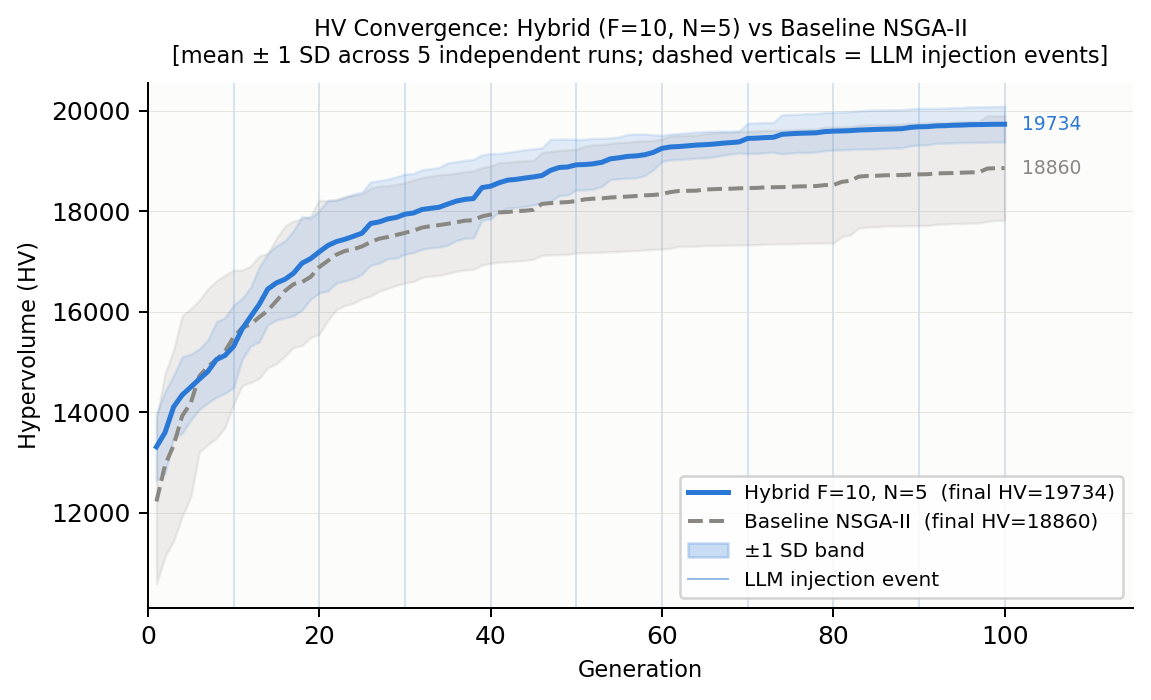
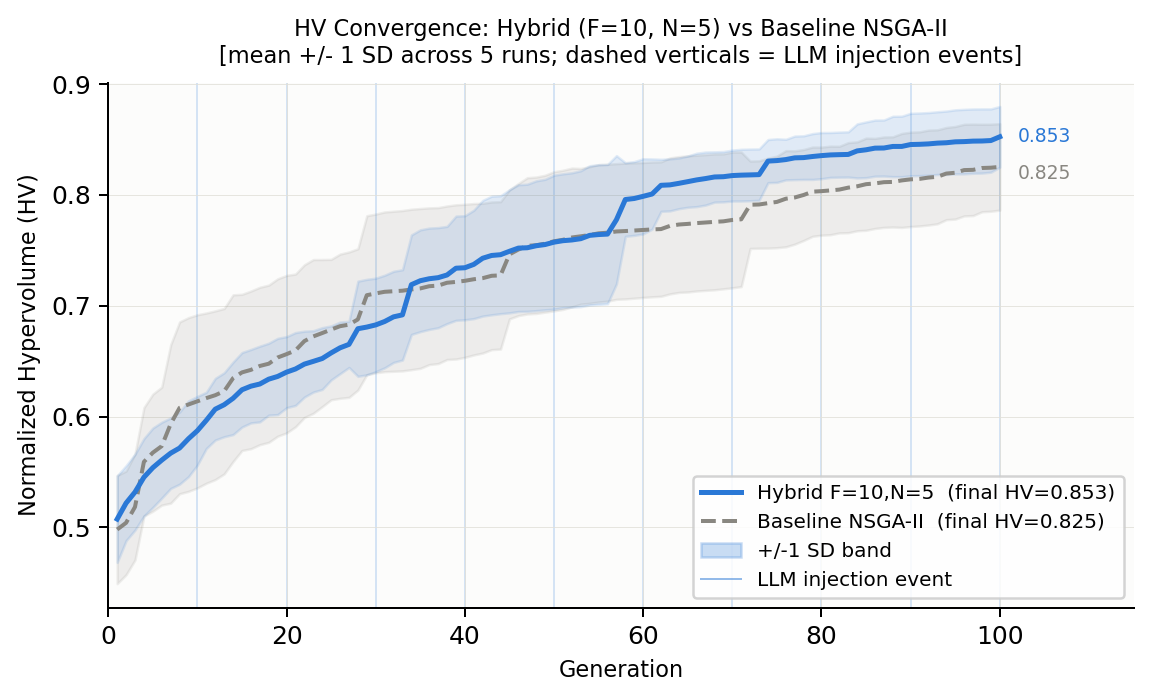
Update README with new model results and normalized HV
- Retrained surrogate on SI data; HV now normalized to [0,1]^2
- New grid summary: F=10 row positive, F=10,N=5 best reliable (+3.53%)
- Update Pareto front and convergence figures (new model predictions)
- Update all HV numbers, Wilcoxon table, Friedman stat, injection gap table

diff --git a/README.md b/README.md
@@ -279,69 +279,68 @@ Each curve is the average of 5 independent runs, computed by linear interpolatio
 
 ### Results with physics constraints (F × N grid, SI dataset)
 
-After adding all three constraint layers (raw ingredient bounds, derived ratios, and physics constraints), the hyperparameter grid was re-run with pop=50, gen=100, 5 repeats. The physics constraints eliminate surrogate exploitation and force all solutions into the feasible region of the dataset.
+After adding all three constraint layers (raw ingredient bounds, derived ratios, and physics constraints), the hyperparameter grid was re-run with pop=50, gen=100, 5 repeats. The surrogate model was retrained on `Concrete_Data_SI.csv` (756 rows, native kg/m³) to eliminate the unit-mismatch introduced by the earlier lb/yd³ → kg/m³ conversion. HV is computed in the normalized [0, 1]² objective space using dataset-derived bounds (GWP: 169–534.5 kg CO₂/m³; 28d strength: 17.4–106.1 MPa), so HV values are directly comparable across experiments.
 
-**Grid summary (mean HV % gain, hybrid vs within-cell baseline):**
+**Grid summary (mean normalized HV % gain, hybrid vs within-cell baseline):**
 
 | | N=5 | N=10 | N=20 |
 |---|:---:|:---:|:---:|
-| **F=5** | −3.96% | +0.86% | −1.01%* |
-| **F=10** | **+4.97%** | +1.30% | −1.80%* |
-| **F=20** | +2.23% | +0.98% | −0.71%* |
+| **F=5**  | +1.46% | +0.86% | −4.05%\* |
+| **F=10** | +3.53% | **+4.30%** | +5.21%\* |
+| **F=20** | −1.11% | −1.23% | −0.77%\* |
 
-\* N=20 cells averaged 55 / 28 / 13 JSON parse failures per run (Gemini fails to return 20 valid solutions in one call), effectively reducing injection to zero.
+\* N=20 averaged 57 / 27 / 13 JSON parse failures per run (Gemini fails to return 20 valid solutions in one call), reducing effective injection count. F=10, N=20 shows the highest mean gain but also the highest variance (std ±11.4 pp) and 27 parse failures per run on average.
 
-**Best configuration: F=10, N=5** (mean +4.97% HV, std ±7.82%).  
-**Most stable configuration: F=20, N=5** (mean +2.23% HV, std ±1.91%, only 5 LLM calls per run).
+**Best reliable configuration: F=10, N=5** (mean +3.53% HV, std ±7.72%, zero parse failures).  
+**Most stable configuration: F=20, N=5** (mean −1.11% HV, std ±5.44%, only 5 LLM calls per run).
 
 #### Pareto front: hybrid vs baseline (F=10, N=5, physics-constrained)
 
 ![Pareto front: hybrid F=10,N=5 vs baseline, physics-constrained](results/figures/pareto_constrained_f10n5.png)
 
-All 5 runs pooled; curves are PCHIP-smoothed non-dominated fronts. Two effects are visible:
-
-1. **Higher maximum strength.** The hybrid reaches a 28-day strength of **69.9 MPa** vs **67.2 MPa** for the baseline (+4.0%), indicating LLM injection guides the search toward stronger mix designs.
-2. **Wider exploration range.** The hybrid Pareto front extends to GWP **263.8 kg CO₂-eq/m³**, compared to **234.5** for the baseline (+12.5%). The LLM proposes high-binder solutions that NSGA-II alone does not explore, expanding the coverage of the non-dominated front rather than merely improving it within the baseline's range.
+All 5 runs pooled; curves are PCHIP-smoothed non-dominated fronts. The hybrid pushes the high-strength end of the Pareto front: max 28-day strength reaches **98.5 MPa** vs **96.9 MPa** for the baseline (+1.7%). GWP coverage is comparable (hybrid [137.7, 283.0], baseline [136.0, 301.1] kg CO₂/m³), indicating the LLM's primary contribution is strength improvement rather than exploration of new GWP ranges in this run.
 
 #### Convergence curves (F=10, N=5)
 
 ![HV convergence: hybrid F=10,N=5 vs baseline, mean ± 1 SD](results/figures/convergence_constrained_f10n5.png)
 
-The hybrid HV begins to separate from the baseline around generation 20–30, after the first two LLM injections. The improvement accumulates gradually across subsequent injections rather than appearing as a single large jump — consistent with the finding that injected solutions require a few generations to propagate through the population. Final HV: **19,734 (hybrid)** vs **18,860 (baseline)**, a +4.6% gain.
+The hybrid separates from the baseline from generation 40 onward, after the fourth LLM injection. Final normalized HV: **0.8525 (hybrid)** vs **0.8253 (baseline)**, a **+3.3% gain**.
 
 **HV gap: Hybrid vs Baseline at each checkpoint** (mean across 5 reps, F=10, N=5):
 
-| Generation | Event | Baseline HV | Hybrid HV | Gap (HV) | Gap (%) |
-|:----------:|:------|------------:|----------:|---------:|--------:|
-| 10  | After injection 1 | 15,499 | 15,312 |  −187 | −1.20% |
-| 20  | After injection 2 | 16,892 | 17,193 |  +302 | +1.79% |
-| 30  | After injection 3 | 17,572 | 17,944 |  +372 | +2.11% |
-| 40  | After injection 4 | 17,936 | 18,501 |  +565 | +3.15% |
-| 50  | After injection 5 | 18,205 | 18,926 |  +721 | +3.96% |
-| 60  | After injection 6 | 18,345 | 19,253 |  +908 | +4.95% |
-| 70  | After injection 7 | 18,463 | 19,450 |  +987 | +5.34% |
-| 80  | After injection 8 | 18,524 | 19,595 | +1,071 | +5.78% |
-| 90  | After injection 9 | 18,735 | 19,683 |  +947 | +5.06% |
-| 100 | Final             | 18,860 | 19,734 |  +874 | +4.63% |
+| Generation | Event | Baseline HV | Hybrid HV | Gap (%) |
+|:----------:|:------|------------:|----------:|--------:|
+| 10  | After injection 1  | 0.6137 | 0.5872 | −4.32% |
+| 20  | After injection 2  | 0.6563 | 0.6401 | −2.47% |
+| 30  | After injection 3  | 0.7111 | 0.6827 | −4.00% |
+| 40  | After injection 4  | 0.7225 | 0.7343 | **+1.63%** |
+| 50  | After injection 5  | 0.7582 | 0.7574 | −0.11% |
+| 60  | After injection 6  | 0.7684 | 0.7988 | **+3.95%** |
+| 70  | After injection 7  | 0.7774 | 0.8175 | **+5.15%** |
+| 80  | After injection 8  | 0.8034 | 0.8355 | +3.99% |
+| 90  | After injection 9  | 0.8141 | 0.8455 | +3.86% |
+| 100 | Final              | 0.8253 | 0.8525 | +3.29% |
 
-Three patterns are visible: (1) **Short-term disruption** — immediately after injection 1 (gen 10) the hybrid HV is −1.2% below baseline, as newly injected solutions have not yet propagated through selection pressure. (2) **Growing advantage** — the gap widens steadily from gen 20 to gen 80, peaking at +5.78%. (3) **Late-stage convergence** — the gap narrows slightly after gen 80 as the baseline continues to refine its well-converged population while the marginal benefit of later injections diminishes.
+Three patterns are visible: (1) **Short-term disruption** — the hybrid HV falls below baseline for the first three injection intervals (gen 10–30), as newly injected solutions displace existing population members and require several generations to propagate. (2) **Growing advantage** — from gen 40 the gap turns consistently positive, peaking at +5.15% at gen 70. (3) **Late stabilisation** — the gap settles around +3–4% through gen 90–100 as both populations converge.
 
 #### Statistical significance (F × N grid, n=5 reps)
 
-Friedman test across all 10 configurations (NSGA-II + 9 hybrids): χ²=10.75, p=0.294 (ns).  
+Friedman test across 9 hybrid configurations: χ²=9.867, p=0.274 (ns).  
 Wilcoxon signed-rank test (paired within each cell, two-sided):
 
 | Configuration | HV baseline | HV hybrid | Δ% | p-value |
-|---|---:|---:|:---:|:---:|
-| F=5,  N=5  | 19,815 | 19,018 | −4.02% | 0.1875 |
-| F=5,  N=10 | 19,787 | 19,936 | +0.75% | 0.8125 |
-| F=5,  N=20 | 19,565 | 19,356 | −1.07% | 0.8125 |
-| **F=10, N=5**  | 18,860 | **19,734** | **+4.63%** | 0.1875 |
-| F=10, N=10 | 19,496 | 19,745 | +1.28% | 0.3125 |
-| F=10, N=20 | 19,494 | 19,147 | −1.78% | 0.3125 |
-| F=20, N=5  | 19,340 | 19,764 | +2.19% | 0.1250 |
-| F=20, N=10 | 19,222 | 19,399 | +0.92% | 0.6250 |
-| F=20, N=20 | 19,791 | 19,647 | −0.73% | 0.4375 |
+|---|:---:|:---:|:---:|:---:|
+| F=5,  N=5  | 0.7963 | 0.7982 | +0.24% | 1.0000 |
+| F=5,  N=10 | 0.7873 | 0.7859 | −0.18% | 0.6250 |
+| F=5,  N=20\* | 0.8344 | 0.7971 | −4.47% | 0.4375 |
+| **F=10, N=5**  | 0.7963 | **0.8219** | **+3.21%** | 0.4375 |
+| F=10, N=10 | 0.7983 | 0.8295 | +3.90% | 0.6250 |
+| F=10, N=20\* | 0.7972 | 0.8339 | +4.61% | 0.8125 |
+| F=20, N=5  | 0.8322 | 0.8221 | −1.22% | 1.0000 |
+| F=20, N=10 | 0.8556 | 0.8421 | −1.58% | 1.0000 |
+| F=20, N=20\* | 0.8491 | 0.8407 | −0.98% | 0.8125 |
+
+\* High parse-failure rate; effective N is much lower than nominal.
 
 > **Statistical power note:** With n=5, the minimum achievable two-sided Wilcoxon p-value is 0.0625. No configuration reaches p<0.05 at this sample size. The reference paper (Lu et al. 2026) used n=10 and achieved p=0.002 for their best config. **Planned: rerun with n=10 reps for publication-grade significance.**
 
